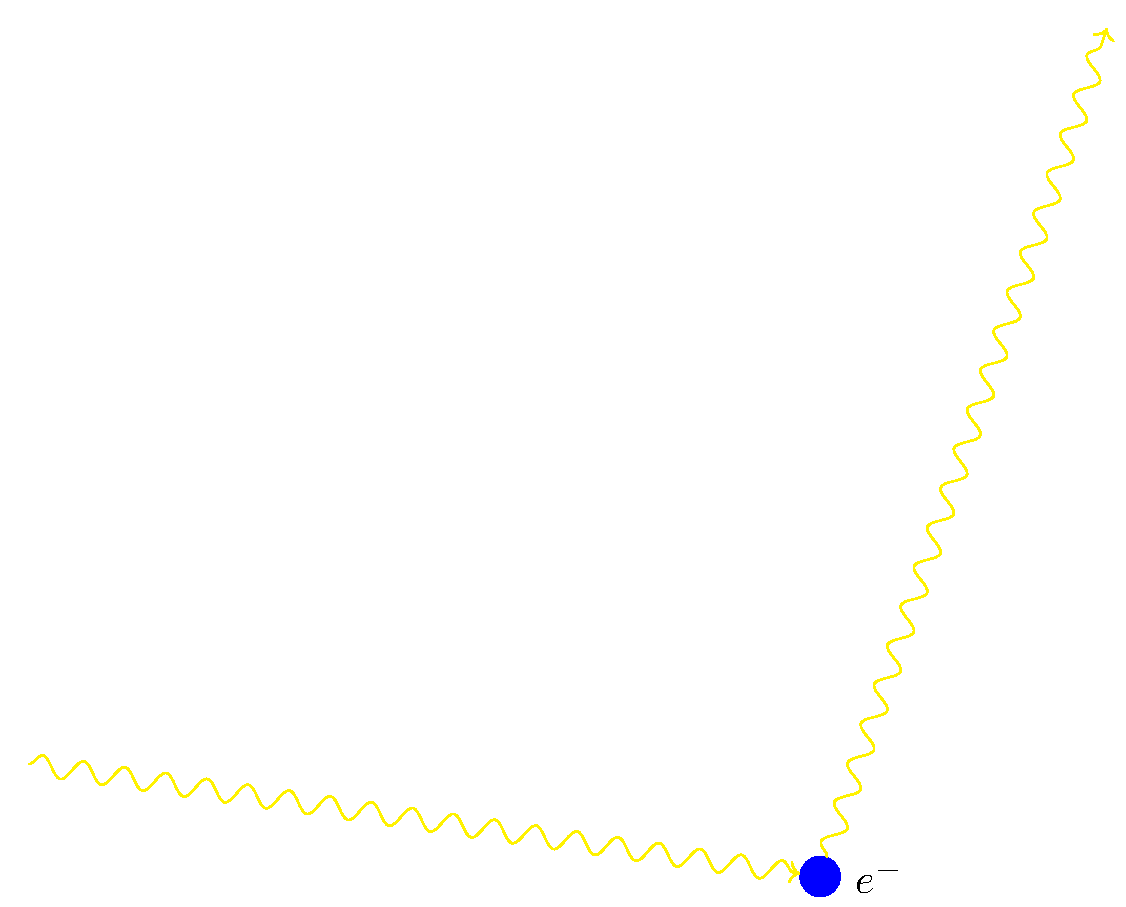
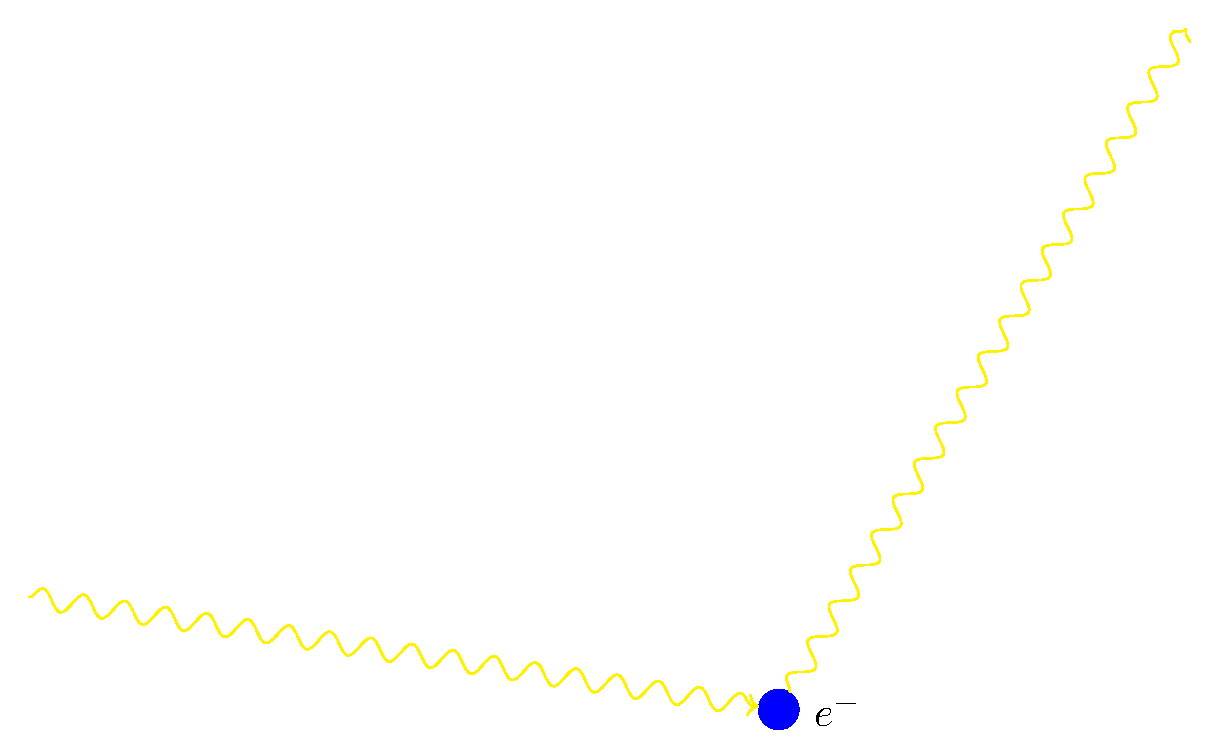
deploy: 5b486e101ad3b59b0a3599c7d7e66a65b70270f5

diff --git a/branch/docs/physics/resize-elements-in-diagrams/installation.html b/branch/docs/physics/resize-elements-in-diagrams/installation.html
@@ -4,7 +4,7 @@
   <meta charset="utf-8" /><meta name="generator" content="Docutils 0.18.1: http://docutils.sourceforge.net/" />
 
   <meta name="viewport" content="width=device-width, initial-scale=1.0" />
-  <title>Downloading and Installation &mdash; stardis 0.1.dev1+ga0fba16 documentation</title>
+  <title>Downloading and Installation &mdash; stardis 0.1.dev1+g5b486e1 documentation</title>
       <link rel="stylesheet" href="_static/pygments.css" type="text/css" />
       <link rel="stylesheet" href="_static/css/theme.css" type="text/css" />
       <link rel="stylesheet" href="_static/graphviz.css" type="text/css" />

diff --git a/branch/docs/physics/resize-elements-in-diagrams/physics/physics_of_stardis.html b/branch/docs/physics/resize-elements-in-diagrams/physics/physics_of_stardis.html
@@ -4,7 +4,7 @@
   <meta charset="utf-8" /><meta name="generator" content="Docutils 0.18.1: http://docutils.sourceforge.net/" />
 
   <meta name="viewport" content="width=device-width, initial-scale=1.0" />
-  <title>Physics of STARDIS &mdash; stardis 0.1.dev1+ga0fba16 documentation</title>
+  <title>Physics of STARDIS &mdash; stardis 0.1.dev1+g5b486e1 documentation</title>
       <link rel="stylesheet" href="../_static/pygments.css" type="text/css" />
       <link rel="stylesheet" href="../_static/css/theme.css" type="text/css" />
       <link rel="stylesheet" href="../_static/graphviz.css" type="text/css" />

diff --git a/branch/docs/physics/resize-elements-in-diagrams/index.html b/branch/docs/physics/resize-elements-in-diagrams/index.html
@@ -4,7 +4,7 @@
   <meta charset="utf-8" /><meta name="generator" content="Docutils 0.18.1: http://docutils.sourceforge.net/" />
 
   <meta name="viewport" content="width=device-width, initial-scale=1.0" />
-  <title>stardis Documentation &mdash; stardis 0.1.dev1+ga0fba16 documentation</title>
+  <title>stardis Documentation &mdash; stardis 0.1.dev1+g5b486e1 documentation</title>
       <link rel="stylesheet" href="_static/pygments.css" type="text/css" />
       <link rel="stylesheet" href="_static/css/theme.css" type="text/css" />
       <link rel="stylesheet" href="_static/graphviz.css" type="text/css" />

diff --git a/branch/docs/physics/resize-elements-in-diagrams/running_the_code.html b/branch/docs/physics/resize-elements-in-diagrams/running_the_code.html
@@ -4,7 +4,7 @@
   <meta charset="utf-8" /><meta name="generator" content="Docutils 0.18.1: http://docutils.sourceforge.net/" />
 
   <meta name="viewport" content="width=device-width, initial-scale=1.0" />
-  <title>Running the Code &mdash; stardis 0.1.dev1+ga0fba16 documentation</title>
+  <title>Running the Code &mdash; stardis 0.1.dev1+g5b486e1 documentation</title>
       <link rel="stylesheet" href="_static/pygments.css" type="text/css" />
       <link rel="stylesheet" href="_static/css/theme.css" type="text/css" />
       <link rel="stylesheet" href="_static/graphviz.css" type="text/css" />

diff --git a/branch/docs/physics/resize-elements-in-diagrams/bibliography.html b/branch/docs/physics/resize-elements-in-diagrams/bibliography.html
@@ -4,7 +4,7 @@
   <meta charset="utf-8" /><meta name="generator" content="Docutils 0.18.1: http://docutils.sourceforge.net/" />
 
   <meta name="viewport" content="width=device-width, initial-scale=1.0" />
-  <title>Bibliography &mdash; stardis 0.1.dev1+ga0fba16 documentation</title>
+  <title>Bibliography &mdash; stardis 0.1.dev1+g5b486e1 documentation</title>
       <link rel="stylesheet" href="_static/pygments.css" type="text/css" />
       <link rel="stylesheet" href="_static/css/theme.css" type="text/css" />
       <link rel="stylesheet" href="_static/graphviz.css" type="text/css" />

diff --git a/branch/docs/physics/resize-elements-in-diagrams/quickstart/quickstart.html b/branch/docs/physics/resize-elements-in-diagrams/quickstart/quickstart.html
@@ -4,7 +4,7 @@
   <meta charset="utf-8" /><meta name="generator" content="Docutils 0.18.1: http://docutils.sourceforge.net/" />
 
   <meta name="viewport" content="width=device-width, initial-scale=1.0" />
-  <title>STARDIS &mdash; stardis 0.1.dev1+ga0fba16 documentation</title>
+  <title>STARDIS &mdash; stardis 0.1.dev1+g5b486e1 documentation</title>
       <link rel="stylesheet" href="../_static/pygments.css" type="text/css" />
       <link rel="stylesheet" href="../_static/css/theme.css" type="text/css" />
       <link rel="stylesheet" href="../_static/graphviz.css" type="text/css" />

diff --git a/branch/docs/physics/resize-elements-in-diagrams/search.html b/branch/docs/physics/resize-elements-in-diagrams/search.html
@@ -3,7 +3,7 @@
 <head>
   <meta charset="utf-8" />
   <meta name="viewport" content="width=device-width, initial-scale=1.0" />
-  <title>Search &mdash; stardis 0.1.dev1+ga0fba16 documentation</title>
+  <title>Search &mdash; stardis 0.1.dev1+g5b486e1 documentation</title>
       <link rel="stylesheet" href="_static/pygments.css" type="text/css" />
       <link rel="stylesheet" href="_static/css/theme.css" type="text/css" />
       <link rel="stylesheet" href="_static/graphviz.css" type="text/css" />

diff --git a/branch/docs/physics/resize-elements-in-diagrams/genindex.html b/branch/docs/physics/resize-elements-in-diagrams/genindex.html
@@ -3,7 +3,7 @@
 <head>
   <meta charset="utf-8" />
   <meta name="viewport" content="width=device-width, initial-scale=1.0" />
-  <title>Index &mdash; stardis 0.1.dev1+ga0fba16 documentation</title>
+  <title>Index &mdash; stardis 0.1.dev1+g5b486e1 documentation</title>
       <link rel="stylesheet" href="_static/pygments.css" type="text/css" />
       <link rel="stylesheet" href="_static/css/theme.css" type="text/css" />
       <link rel="stylesheet" href="_static/graphviz.css" type="text/css" />

diff --git a/branch/docs/physics/resize-elements-in-diagrams/_static/documentation_options.js b/branch/docs/physics/resize-elements-in-diagrams/_static/documentation_options.js
@@ -1,6 +1,6 @@
 var DOCUMENTATION_OPTIONS = {
     URL_ROOT: document.getElementById("documentation_options").getAttribute('data-url_root'),
-    VERSION: '0.1.dev1+ga0fba16',
+    VERSION: '0.1.dev1+g5b486e1',
     LANGUAGE: 'en',
     COLLAPSE_INDEX: false,
     BUILDER: 'html',
